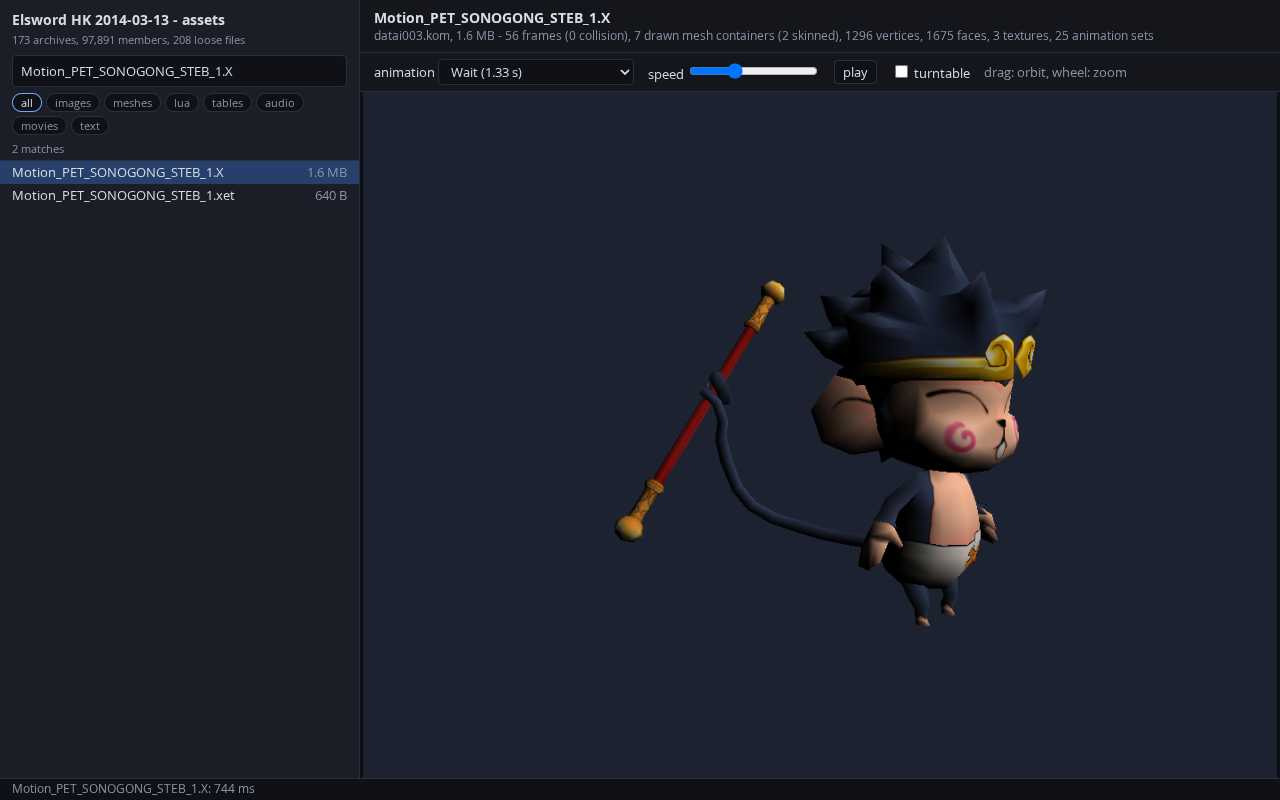
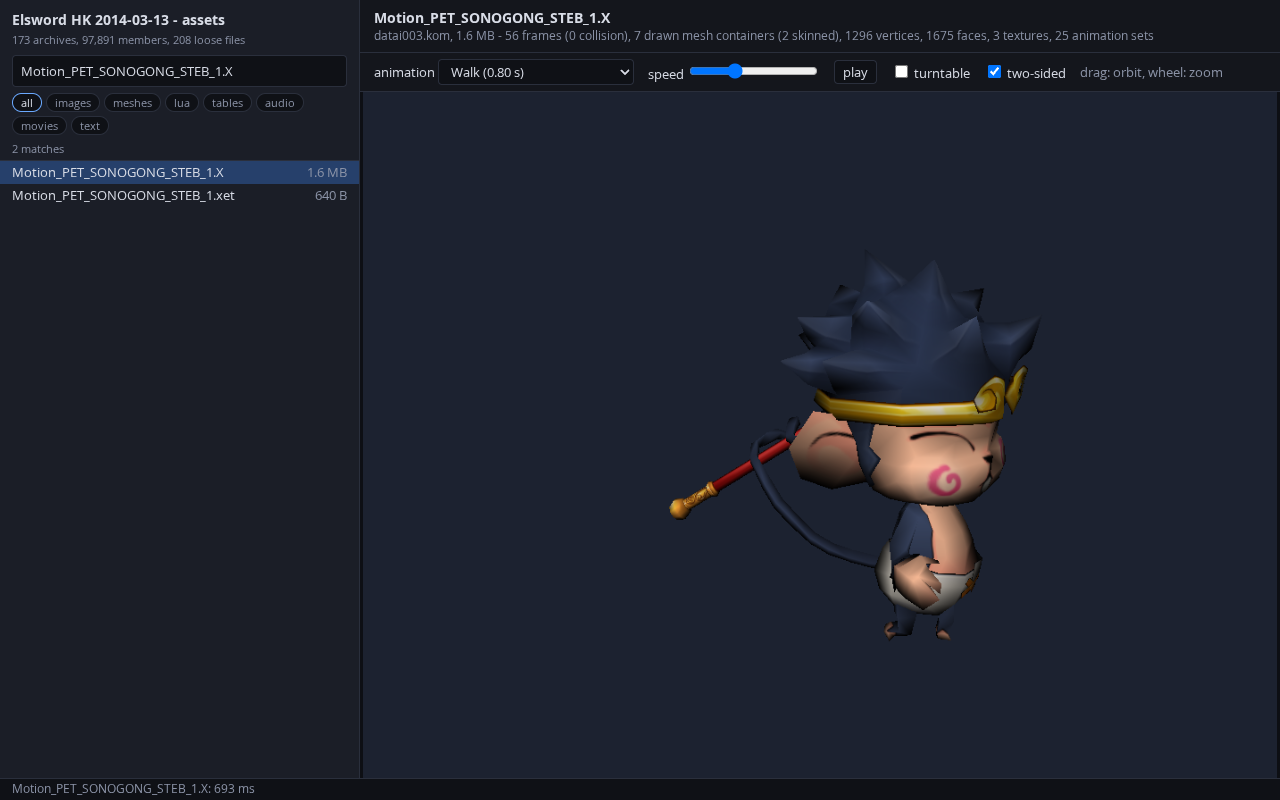
Viewer: two-sided + blended + whole-motion camera; browser smoke test over random X / Y files; httpSource size fallback
* tools/browser-test.ts --smoke N: opens N pseudo-random X / Y files in the browser. 1,500 files:
  1,445 drawn (407 skinned, 299 animated), 55 KSM / KME (not X), 10 without anything to draw,
  0 errors, 0 blank pictures of a file with a drawn container.
* apps/client mesh preview, found by that sample: two-sided by default (single-sided planes were
  culled), alpha blending with a low alpha test (fog planes), camera bounds from 9 poses of the
  first animation set (effect weapons start at scale 0.002).
* @els/kom httpSource: when a proxy drops Content-Length on HEAD, take the size from the
  Content-Range of a one-byte range request (4 tests against a real server).
* docs: FINDINGS 15.4, README / ARCHITECTURE / ROADMAP (test counts 495 / 368), pet screenshot.

diff --git a/apps/client/src/previews/mesh.ts b/apps/client/src/previews/mesh.ts
@@ -7,7 +7,7 @@
  */
 import { collisionFrames, setupDrawFrameList, setupFrameList } from "@els/engine";
 import {
-  D3DCLEAR, D3DCMP, D3DCULL, D3DFMT, D3DLIGHT, D3DPOOL, D3DRS, D3DSAMP, D3DTEXF, D3DTS, D3DTS_WORLD, D3DX_FILTER, D3DXCreateTextureFromFileInMemoryEx,
+  D3DBLEND, D3DCLEAR, D3DCMP, D3DCULL, D3DFMT, D3DLIGHT, D3DPOOL, D3DRS, D3DSAMP, D3DTEXF, D3DTS, D3DTS_WORLD, D3DX_FILTER, D3DXCreateTextureFromFileInMemoryEx,
   D3DXFrameFind, D3DXLoadMeshHierarchyFromXInMemory, D3DXMESH, matIdentity, matLookAtLH, matMultiply, matPerspectiveFovLH,
 } from "@els/d3d9";
 import type { D3DXAnimationController, D3DXFrame, D3DXMesh, D3DXMeshContainer, D3DXMaterial, D3DXSkinInfo, Direct3DTexture9, ID3DXAllocateHierarchy } from "@els/d3d9";
@@ -148,12 +148,20 @@ export async function meshPreview(env: PreviewEnv, name: string, bytes: Uint8Arr
     }
   };
   growBounds();
+  if (controller && sets.length) {
+    // the camera must see the whole motion: an effect weapon can start at scale 0.002 and grow to full size (EG_SP3a_QueensThrone_JumpAttackZ_02.X)
+    for (let k = 1; k <= 8; k++) { controller.SetTrackPosition(0, (sets[0]!.period * k) / 8); pose(0); growBounds(); }
+    selectSet(0);
+    pose(0);
+  }
   const hasGeometry = containers.length > 0 && Number.isFinite(lo[0]!);
   const center = hasGeometry ? [(lo[0]! + hi[0]!) / 2, (lo[1]! + hi[1]!) / 2, (lo[2]! + hi[2]!) / 2] : [0, 0, 0];
   const radius = hasGeometry ? Math.max(1e-3, Math.hypot(hi[0]! - lo[0]!, hi[1]! - lo[1]!, hi[2]! - lo[2]!) / 2) : 1;
 
   // ---- camera + draw
   let yaw = 0.6, pitch = 0.25, distance = radius * 2.6, autoRotate = true, raf = 0, last = performance.now(), frameCounter = 0;
+  /** Planes of stages / avatar cards are single-sided in the files; the exe decides the cull mode per object (XMeshPlayer, CKTDGXRenderer), the files carry none. The viewer is an inspector: two-sided by default, D3D's CCW on request. */
+  let twoSided = true;
   const draw = (): void => {
     dev.Clear(null, D3DCLEAR.TARGET | D3DCLEAR.ZBUFFER, 0xff1c2230, 1, 0);
     dev.BeginScene();
@@ -162,10 +170,13 @@ export async function meshPreview(env: PreviewEnv, name: string, bytes: Uint8Arr
     dev.SetRenderState(D3DRS.LIGHTING, 1);
     dev.SetRenderState(D3DRS.AMBIENT, 0xff707070);
     dev.SetRenderState(D3DRS.NORMALIZENORMALS, 1);
-    dev.SetRenderState(D3DRS.CULLMODE, D3DCULL.CCW);
-    dev.SetRenderState(D3DRS.ALPHABLENDENABLE, 0);
+    dev.SetRenderState(D3DRS.CULLMODE, twoSided ? D3DCULL.NONE : D3DCULL.CCW);
+    // an inspector's choice (the exe sets blending per object): texture alpha blends, nearly transparent texels are dropped so they do not hide what is behind
+    dev.SetRenderState(D3DRS.ALPHABLENDENABLE, 1);
+    dev.SetRenderState(D3DRS.SRCBLEND, D3DBLEND.SRCALPHA);
+    dev.SetRenderState(D3DRS.DESTBLEND, D3DBLEND.INVSRCALPHA);
     dev.SetRenderState(D3DRS.ALPHATESTENABLE, 1);
-    dev.SetRenderState(D3DRS.ALPHAREF, 0x40);
+    dev.SetRenderState(D3DRS.ALPHAREF, 0x08);
     dev.SetRenderState(D3DRS.ALPHAFUNC, D3DCMP.GREATEREQUAL);
     dev.SetSamplerState(0, D3DSAMP.MINFILTER, D3DTEXF.LINEAR);
     dev.SetSamplerState(0, D3DSAMP.MAGFILTER, D3DTEXF.LINEAR);
@@ -210,10 +221,11 @@ export async function meshPreview(env: PreviewEnv, name: string, bytes: Uint8Arr
   const speedInput = el("input", { type: "range", min: "0", max: "3", step: "0.05", value: "1", oninput: () => { speed = Number(speedInput.value); } });
   const pauseBtn = el("button", { text: "pause", onclick: () => { paused = !paused; pauseBtn.textContent = paused ? "play" : "pause"; } });
   const rotate = el("input", { type: "checkbox", checked: true, onchange: () => { autoRotate = rotate.checked; } });
+  const sided = el("input", { type: "checkbox", checked: true, onchange: () => { twoSided = sided.checked; } });
   const bar = el("div", { class: "bar" },
     sets.length ? el("label", {}, "animation ", select) : el("span", { text: "no animation" }),
     sets.length ? el("label", {}, "speed ", speedInput) : null, sets.length ? pauseBtn : null,
-    el("label", {}, rotate, " turntable"), el("span", { class: "dim", text: "drag: orbit, wheel: zoom" }));
+    el("label", {}, rotate, " turntable"), el("label", { title: "off = D3DCULL_CCW, the D3D default" }, sided, " two-sided"), el("span", { class: "dim", text: "drag: orbit, wheel: zoom" }));
   const pane = el("div", { class: "pane" }, bar, el("div", { class: "glwrap" }, canvas));
   raf = requestAnimationFrame(tick);
   const refused = frameList.hr < 0 ? " - the exe would refuse this mesh (more than 255 frames)" : "";
@@ -229,6 +241,7 @@ export async function meshPreview(env: PreviewEnv, name: string, bytes: Uint8Arr
     control(o) {
       if (typeof o.autoRotate === "boolean") { autoRotate = o.autoRotate; rotate.checked = autoRotate; }
       if (typeof o.paused === "boolean") { paused = o.paused; pauseBtn.textContent = paused ? "play" : "pause"; }
+      if (typeof o.twoSided === "boolean") { twoSided = o.twoSided; sided.checked = twoSided; }
       if (typeof o.yaw === "number") yaw = o.yaw;
       if (typeof o.pitch === "number") pitch = o.pitch;
       if (typeof o.distance === "number") distance = o.distance * radius; // in bounding radii
@@ -236,6 +249,6 @@ export async function meshPreview(env: PreviewEnv, name: string, bytes: Uint8Arr
       if (typeof o.time === "number") pose(o.time); // from the start of the set
       draw();
     },
-    state() { return { frames: frameCounter, time, setIndex, sets: sets.map((s) => s.name), containers: containers.length, skinned, vertices: numVertices, radius, paused }; },
+    state() { return { frames: frameCounter, time, setIndex, sets: sets.map((s) => s.name), containers: containers.length, skinned, vertices: numVertices, radius, paused, twoSided, center, yaw }; },
   };
 }

diff --git a/tools/browser-test.ts b/tools/browser-test.ts
@@ -2,7 +2,7 @@
  * Browser tests of the web client (apps/client + apps/server) in headless Chromium with WebGPU (SwiftShader):
  *
  *   ./tools/setup-browser.sh            (once; tools/browser.mjs runs it when the browser is missing)
- *   bun run tools/browser-test.ts [--shots dir] [--url http://host:port/]
+ *   bun run tools/browser-test.ts [--shots dir] [--url http://host:port/] [--smoke N]
  *
  * Starts the server in this process (or uses --url), loads the page and checks, against the same decoders run in Bun on the same files:
  *   - the 173 archives mount over HTTP Range requests (97,891 members)
@@ -19,6 +19,7 @@ import { indexAllKoms } from "./komindex.ts";
 const argv = process.argv.slice(2);
 const opt = (name: string): string | undefined => { const i = argv.indexOf(name); return i < 0 ? undefined : argv[i + 1]; };
 const shotsDir = opt("--shots");
+const smoke = Number(opt("--smoke") ?? 0); // --smoke N: also open N pseudo-random X / Y files and report what fails
 if (shotsDir) mkdirSync(shotsDir, { recursive: true });
 
 let failures = 0;
@@ -155,6 +156,38 @@ try {
       const info = await page.evaluate<string>("document.querySelector('.info').textContent");
       check("fallback: Mesh_Elsword_Base_SD.x (KSM, not X) opens as a binary dump with a note", /not shown as a mesh/.test(info), info);
     }
+    // ---- --smoke N: a deterministic pseudo-random sample of the X / Y files through the whole browser stack
+    if (smoke > 0) {
+      await page.goto(base, { waitUntil: "load" });
+      await page.waitForFunction("window.__els && (window.__els.ready || window.__els.error)", { timeout: 60000, polling: 50 });
+      const names = await page.evaluate<string[]>(`(() => { const rows = __els.vfs.rows.filter((r) => r.ext === 'x' || r.ext === 'y'); let seed = 12345; const out = [];
+        for (let i = 0; i < ${smoke}; i++) { seed = (Math.imul(seed, 1103515245) + 12345) >>> 0; out.push(rows[seed % rows.length].name); } return out; })()`);
+      const tally = { drawn: 0, skinned: 0, animated: 0, notX: 0, failed: [] as string[], slow: [] as string[], blank: [] as string[], blankDrawn: [] as string[] };
+      for (const name of names) {
+        const t = Date.now();
+        try {
+          await page.evaluate(`(async () => { await window.__els.open(${JSON.stringify(name)}); })()`);
+          await page.waitForFunction(`document.querySelector('.name').textContent.toLowerCase() === ${JSON.stringify(name.toLowerCase())} && (window.__els.viewer.preview !== null || document.querySelector('.err'))`, { timeout: 30000, polling: 25 });
+          // an effect mesh can start with scale 0 (RWT_GIGA_PROMINENCE_pillar_fire01.X): a blank first picture is retried at later animation times
+          const r = await page.evaluate<{ err: string | null; info: string; lit: number; state: { containers?: number; skinned?: number; sets?: string[]; vertices?: number } | null }>(
+            `(async () => { const p = __els.viewer.preview; let lit = 0;
+              const count = async () => { await new Promise((x) => requestAnimationFrame(() => requestAnimationFrame(x))); const px = (await p.snapshot()).rgba; let n = 0;
+                for (let i = 0; i < px.length; i += 4) if (!(px[i] === 0x1c && px[i+1] === 0x22 && px[i+2] === 0x30)) n++; return n; };
+              if (p?.snapshot) { lit = await count();
+                if (lit === 0 && p.control && (p.state().sets?.length ?? 0) > 0) { p.control({ paused: true, autoRotate: false });
+                  for (const t of [0.25, 0.5, 1, 2]) { p.control({ set: 0 }); p.control({ time: t }); lit = await count(); if (lit > 0) break; } } }
+              return { err: document.querySelector('.err')?.textContent ?? null, info: document.querySelector('.info').textContent, lit, state: p?.state?.() ?? null }; })()`);
+          if (r.err) tally.failed.push(`${name}: ${r.err}`);
+          else if (/not shown as a mesh/.test(r.info)) tally.notX++;
+          else if (r.state && (r.state.containers ?? 0) >= 0) { tally.drawn++; if ((r.state.skinned ?? 0) > 0) tally.skinned++; if ((r.state.sets?.length ?? 0) > 0) tally.animated++; if (r.lit === 0) (r.state.containers ? tally.blankDrawn : tally.blank).push(`${name} (containers ${r.state.containers}, vertices ${r.state.vertices})`); }
+        } catch (e) { tally.failed.push(`${name}: ${e instanceof Error ? e.message : e}`); }
+        if (Date.now() - t > 8000) tally.slow.push(`${name} ${Date.now() - t} ms`);
+      }
+      // a file with a drawn mesh container must show something; files without one (dummies, ATTACK_* / COLLISION* helper meshes only) are blank by design
+      check(`smoke: ${smoke} random X / Y files open without an error and show something (${tally.drawn} drawn, ${tally.skinned} skinned, ${tally.animated} animated, ${tally.notX} are KSM / KME, ${tally.blank.length} have nothing to draw)`,
+        tally.failed.length === 0 && tally.slow.length === 0 && tally.blankDrawn.length === 0, [...tally.failed, ...tally.slow, ...tally.blankDrawn.map((b) => `blank: ${b}`)].slice(0, 6).join(" | "));
+    }
+
     // ---- the same fixed views with the canvas / back buffer in either format: the layer must not depend on the swizzle (the preferred
     //      format differs between platforms: rgba8unorm in this headless browser, usually bgra8unorm on a desktop GPU)
     const fixed = async (format: string): Promise<{ format: string; hashes: string[] }> => {

diff --git a/packages/kom/test/httpsource.test.ts b/packages/kom/test/httpsource.test.ts
@@ -1,0 +1,47 @@
+/** httpSource over a real HTTP server (the web client's way of reading KOMs). */
+import { afterAll, describe, expect, test } from "bun:test";
+import { httpSource } from "../src/index.ts";
+
+const body = new Uint8Array(1000).map((_, i) => (i * 7) & 255);
+function server(opts: { headLength: boolean; ranges: boolean; streamed?: boolean }) {
+  return Bun.serve({
+    port: 0, hostname: "127.0.0.1",
+    fetch(req) {
+      if (req.method === "HEAD") return new Response(null, { headers: opts.headLength ? { "content-length": String(body.length) } : {} });
+      const m = /^bytes=(\d+)-(\d+)$/.exec(req.headers.get("range") ?? "");
+      if (m && opts.ranges) {
+        const a = Number(m[1]), b = Math.min(Number(m[2]), body.length - 1);
+        return new Response(body.slice(a, b + 1), { status: 206, headers: { "content-range": `bytes ${a}-${b}/${body.length}` } });
+      }
+      if (opts.streamed) return new Response(new ReadableStream({ start(c) { c.enqueue(body); c.close(); } })); // chunked: no Content-Length
+      return new Response(body);
+    },
+  });
+}
+const servers = [
+  server({ headLength: true, ranges: true }), server({ headLength: false, ranges: true }),
+  server({ headLength: false, ranges: false }), server({ headLength: false, ranges: false, streamed: true }),
+];
+afterAll(() => { for (const s of servers) s.stop(true); });
+
+describe("httpSource", () => {
+  test("size from HEAD, ranges from 206 responses", async () => {
+    const src = await httpSource(`http://127.0.0.1:${servers[0]!.port}/f`);
+    expect(src.size).toBe(1000);
+    expect(Buffer.compare(await src.read(10, 5), Buffer.from(body.subarray(10, 15)))).toBe(0);
+    expect((await src.read(0, 0)).length).toBe(0);
+  });
+  test("without a Content-Length on HEAD the size comes from Content-Range", async () => {
+    const src = await httpSource(`http://127.0.0.1:${servers[1]!.port}/f`);
+    expect(src.size).toBe(1000);
+    expect(Buffer.compare(await src.read(995, 5), Buffer.from(body.subarray(995, 1000)))).toBe(0);
+  });
+  test("a server that ignores Range and sends the whole file (200): the size is its Content-Length, reads slice the body", async () => {
+    const src = await httpSource(`http://127.0.0.1:${servers[2]!.port}/f`);
+    expect(src.size).toBe(1000);
+    expect(Buffer.compare(await src.read(100, 20), Buffer.from(body.subarray(100, 120)))).toBe(0);
+  });
+  test("no size anywhere is an error", async () => {
+    await expect(httpSource(`http://127.0.0.1:${servers[3]!.port}/f`)).rejects.toThrow(/cannot determine the size/);
+  });
+});

diff --git a/packages/kom/src/sources.ts b/packages/kom/src/sources.ts
@@ -15,7 +15,16 @@ export function fileSource(path: string): ByteSource {
 export async function httpSource(url: string): Promise<ByteSource> {
   const head = await fetch(url, { method: "HEAD" });
   if (!head.ok) throw new Error(`HEAD ${url}: ${head.status}`);
-  const size = Number(head.headers.get("content-length"));
+  let size = Number(head.headers.get("content-length"));
+  if (!(size > 0)) {
+    // some proxies drop the length of a HEAD response: ask for the first byte and read the total from Content-Range
+    const probe = await fetch(url, { headers: { Range: "bytes=0-0" } });
+    const total = /\/(\d+)\s*$/.exec(probe.headers.get("content-range") ?? "");
+    await probe.body?.cancel();
+    if (total) size = Number(total[1]);
+    else if (probe.status === 200 && Number(probe.headers.get("content-length")) > 0) size = Number(probe.headers.get("content-length"));
+    else throw new Error(`${url}: cannot determine the size (no Content-Length on HEAD, no Content-Range on a range request)`);
+  }
   return {
     size,
     async read(offset, length) {

diff --git a/docs/FINDINGS.md b/docs/FINDINGS.md
@@ -913,7 +913,8 @@ A Bandi-like movie player for `CMovieData`: `Open` / `GetVideoInfo` / `Play` / `
 
 `@els/kom`: `MassFileManager` (`addMassFile` / `addArchive` / `lock` / `find` / `has` / `loadDataFile` / `names`, the duplicate and lock rules above, upper-case lookup),
 `CLIENT_KOM_NAMES` (the 173 names in the exe's order) and `mountClientArchives(manager, open, { names, concurrency, onMissing, onProgress })`
-(`packages/kom/src/massfile.ts`, `packages/kom/test/massfile.test.ts`, 6 tests). The web client opens the archives through `httpSource("/data/<name>")`; the server (`apps/server`)
+(`packages/kom/src/massfile.ts`, `packages/kom/test/massfile.test.ts`, 6 tests). The web client opens the archives through `httpSource("/data/<name>")` (size from the HEAD
+response, or from `Content-Range` / `Content-Length` of a one-byte range request when a proxy drops it; `httpsource.test.ts`, 4 tests against a real server); the server (`apps/server`)
 answers `Range` and `HEAD` and serves only the asset types the client can use (not `x2.exe`, the decompile or the DLLs).
 
 ## 15. The web client, the browser test harness and the first engine lists
@@ -967,12 +968,22 @@ Ported as `setupFrameList`, `setupDrawFrameList`, `collisionFrames` in `packages
 What the data looks like: the body parts of the playable characters are X files with the 68-bone skeleton and one skinned mesh and **no animation sets** (`Mesh_ElSword_JP_Upbody09_Sorted.X`); their motions live in KAC files
 (`Motion_Elsword.x`, not X). Pets, NPCs and effect models (`Motion_PET_*_STEB_*.X`, 25 animation sets, 2-4 skinned meshes) are complete X files and animate in the viewer.
 
-### 15.4 Verification (`bun run tools/browser-test.ts [--shots dir]`, 18 checks, about 17 s)
+### 15.4 Verification (`bun run tools/browser-test.ts [--shots dir] [--smoke N]`, 18 checks, about 17 s)
 
 It starts the server in the process, loads the page in headless Chromium and checks: 173 archives / 97,891 members mounted over Range requests with none missing; the TGA `dlg_first_loading0_hk.tga` pixel-identical to the
 Bun decode; picture 13 of `movie_create_aisha_base.avi` pixel-identical to the Bun decode; the wooden sword draws one container and lights pixels; `Motion_PET_SONOGONG_STEB_1.X` (56 frames, 7 drawn containers, 2 skinned, 25 sets, 3 textures) draws,
 changes with the animation time and switches animation sets; the Lua listing, `general.ess`, an XET and a TET, an `.ogg` (browser-decoded, 109.7 s) and the KSM fallback; **the sword and the animated pet are pixel-identical with an RGBA and a BGRA back buffer**;
 no console error, exception, failed request or HTTP status >= 400. These show that the browser stack is consistent with the Bun stack, not that the pictures equal the original client's (there is no reference screenshot).
+
+`--smoke N` adds a 19th check: N X / Y files picked by a fixed LCG (seed 12345) are opened in the page one after the other; each must open without an error and, when it has a drawn mesh container, light at least one pixel
+(an animated one may be blank at t = 0 and is retried at 0.25 / 0.5 / 1 / 2 s). With N = 1,500 (5.7 % of the 26,453 files, 3.7 minutes): **1,445 drawn (407 skinned, 299 animated), 55 KSM / KME files (not X: hex fallback), 10 files with nothing
+to draw, 0 errors, 0 blank pictures of a file that has a drawn container.** The 10 are dummies and helper-only files by design: `Darkcloud_AttackBox01.X` has only `ATTACK_SPHERE*` meshes, `Mesh_Common_Cash_AC_Lowbody_249270_Sorted.X` is a 452-byte file with two empty frames.
+The sample found four things in the viewer (they are inspector choices; the exe sets cull and blend per object through its XMeshPlayer scripts and `CKTDGXRenderer`, the X files carry neither):
+
+1. Single-sided planes (stage backdrops, avatar face cards) vanished under `D3DCULL_CCW`: in a first sample of 400 files, 11 files with a drawn container gave a blank picture. The viewer is **two-sided by default** (checkbox "two-sided"; off = `D3DCULL_CCW`, D3D's default); 2 files were still blank.
+2. A fog plane (`El_Forest_Extra_Cave_Stage4_Fog1.Y`, texture alpha 0 or < 0x40 everywhere) vanished under an alpha test of 0x40: now `SRCALPHA` / `INVSRCALPHA` blending with an alpha test of 8.
+3. The camera was fitted to the first pose only. Effect weapons start tiny (`EG_SP3a_QueensThrone_JumpAttackZ_02.X`: bounding radius 0.11 at t = 0, 114 over the motion): the bounds are now the union of 9 poses of the first animation set. After 2 and 3 the sample of 400 had no blank picture left that has a drawn container.
+4. Effect meshes may start at scale 0 (`RWT_GIGA_PROMINENCE_pillar_fire01.X`: 0 lit pixels at t = 0, 73,813 at 0.2 s): the check retries at later times instead of failing.
 
 ### 15.5 Not done
 

diff --git a/docs/ARCHITECTURE.md b/docs/ARCHITECTURE.md
@@ -159,7 +159,7 @@ Design points that matter for faithfulness:
 | `census-skin.ts` | the D3DX hierarchy loader, `ConvertToIndexedBlendedMesh` (with the engine's palette) and the controller over every skinned X file (needs the GPU wrapper) |
 | `render-demo.ts` | the D3D9 visual milestone: loading screen + starter sword -> PNG (`docs/img/d3d9-demo.png` with `--docs`) |
 | `setup-browser.sh`, `browser.mjs` (+ `browser.d.mts`) | installs `puppeteer-core` and a headless Chromium (`@sparticuz/chromium`, WebGPU on SwiftShader) under `/home/user/work/browser` and `/tmp/chromium`; `node tools/browser.mjs URL [--shot f.png] [--wait EXPR] [--eval EXPR]... [--size WxH] [--settle ms]` opens a page, prints the console, evaluates, screenshots, exits 1 on a page error / failed request / timeout; `withPage` for scripts (FINDINGS 15.1) |
-| `browser-test.ts` | 18 browser checks of the web client against the same decoders run in Bun (archives over Range, TGA and AVI pictures pixel-identical, static and skinned meshes through the WebGPU canvas, RGBA vs BGRA back buffer identical, Lua / XET / TET / audio previews, no console error); `--shots DIR` keeps screenshots |
+| `browser-test.ts` | 18 browser checks of the web client (`--smoke N` opens N pseudo-random X / Y files as well; N = 1,500: 1,445 drawn, 0 errors) against the same decoders run in Bun (archives over Range, TGA and AVI pictures pixel-identical, static and skinned meshes through the WebGPU canvas, RGBA vs BGRA back buffer identical, Lua / XET / TET / audio previews, no console error); `--shots DIR` keeps screenshots |
 | `ledger.py` | coverage ledger keyed by IDA address -> `docs/LEDGER.md` (rules in `docs/ledger.tsv`, `docs/ledger-classes.tsv`) |
 | `index_decomp.py`, `komlib.py`, `kom_extract.py`, `luadecrypt.py`, `census.ts` | reverse-engineering helpers (function index, extraction, census) |
 
@@ -185,7 +185,7 @@ python3 tools/index_decomp.py data/x2.exe.c /home/user/work/analysis/functions.t
 python3 tools/bindings.py && python3 tools/ledger.py                                # docs/HOST_API.md, docs/LEDGER.md
 ./node_modules/.bin/bun test packages                                                 # unit tests that need no GPU: asset decoders, Lua loader, KLuaManagerProxy (the d3d9 GPU tests skip)
 ./tools/setup-gpu.sh                                                                   # software Vulkan for Dawn -> /home/user/work/swsh (about 2 s)
-./tools/gpu.sh ./node_modules/.bin/bun test packages                                   # everything: 491 tests, incl. the 153 d3d9 tests on Dawn + SwiftShader
+./tools/gpu.sh ./node_modules/.bin/bun test packages                                   # everything: 495 tests, incl. the 153 d3d9 tests on Dawn + SwiftShader
 ./node_modules/.bin/bun run tools/gen-d3d9-enums.ts --check                            # enums.generated.ts is current
 ./node_modules/.bin/bun run tools/census-xscene.ts                                     # integrity of all 25,313 X / Y scenes
 ./tools/gpu.sh ./node_modules/.bin/bun run tools/census-skin.ts                        # hierarchy loader + skin conversion + animation over all 7,395 skinned files, ~3 min

diff --git a/docs/ROADMAP.md b/docs/ROADMAP.md
@@ -53,7 +53,7 @@ the client asks of Direct3D and every flagged assumption are in FINDINGS section
 
 | Item | Status | Verification |
 |---|---|---|
-| device core: state machine with the D3D9 defaults the exe restores (103 render states, 18 texture-stage states x 8, 13 sampler states x 16), transforms, lights, material, viewport / scissor, Clear (incl. rects, stencil), Present, Reset, render targets + depth surfaces, StretchRect, UpdateTexture, vertex / index buffers with D3D `Lock` semantics (DISCARD / NOOVERWRITE, renaming hazards), user-pointer draws, triangle fans | done | `packages/d3d9/test` (153 tests incl. D3DX and the effect, all on Dawn + SwiftShader; they skip without an adapter; the whole suite is 491 tests, 364 of which need no GPU) |
+| device core: state machine with the D3D9 defaults the exe restores (103 render states, 18 texture-stage states x 8, 13 sampler states x 16), transforms, lights, material, viewport / scissor, Clear (incl. rects, stencil), Present, Reset, render targets + depth surfaces, StretchRect, UpdateTexture, vertex / index buffers with D3D `Lock` semantics (DISCARD / NOOVERWRITE, renaming hazards), user-pointer draws, triangle fans | done | `packages/d3d9/test` (153 tests incl. D3DX and the effect, all on Dawn + SwiftShader; they skip without an adapter; the whole suite is 495 tests, 368 of which need no GPU) |
 | fixed-function pipeline: vertex transform + all light types + material sources + fog (vertex, table, pre-transformed), texture coordinate generation + texture transforms, the full texture-stage cascade (all `D3DTOP`, arguments, TEMP / CURRENT / TFACTOR, 8 stages), specular add, alpha test | done | `draw`, `state`, `lighting`, `cascade` tests against analytic values |
 | pipeline state: blend (+ separate alpha), depth (func / write / bias), stencil, cull, scissor, colour-write mask; samplers: wrap / mirror / clamp, point / linear / anisotropic, mip filter + LOD bias + max level | done | `state`, `texture` tests |
 | texture / surface formats: A8R8G8B8, X8R8G8B8, A1R5G5B5, X1R5G5B5, R5G6B5, A4R4G4B4, L8, A8L8, A8, R8G8B8, DXT1 / 3 / 5 (BC1 / 2 / 3, CPU decode when the adapter lacks BC), D16 / D24 / D32 depth, float render targets | done | `formats`, `rendertarget` tests (BC within +-1) |

diff --git a/README.md b/README.md
@@ -26,7 +26,7 @@
 | 5 | `lua_tinker` 等價的 host API | 已完成**地面實況分析**（`docs/HOST_API.md`），尚未實作 |
 | 6 | 開機／登入／角色選擇 + `apps/server` | 未開始 |
 
-![資產檢視器：Sonogong 寵物（`Motion_PET_SONOGONG_STEB_1.X`，蒙皮動畫「Wait」）由原版 KOM 資產經 D3D9 層畫在 WebGPU canvas（無頭 Chromium + SwiftShader 截圖）](docs/img/web-viewer-pet.png)
+![資產檢視器：Sonogong 寵物（`Motion_PET_SONOGONG_STEB_1.X`，蒙皮動畫「Walk」）由原版 KOM 資產經 D3D9 層畫在 WebGPU canvas（無頭 Chromium + SwiftShader 截圖）](docs/img/web-viewer-pet.png)
 
 ### Lua VM 的驗證結果（誠實版）
 
@@ -78,8 +78,8 @@ npm install --no-audit --no-fund --prefix /home/user/work/boot bun@1.4.4   # npm
 ./tools/setup-oracle.sh                 # 建置 LuaJIT 2.0.2 oracle 到 /home/user/work/luajit-2.0
 python3 tools/kom_extract.py /home/user/work/ex lua,LUA  # 取出 4,498 個腳本
 ./tools/lua-difftest.sh                 # 15 個差異測試（t10–t14 為模糊測試、t15 為載入器）
-./node_modules/.bin/bun test packages   # 不需要 GPU 的單元測試（364 個；d3d9／engine 的 GPU 測試會自行略過）
-./tools/gpu.sh ./node_modules/.bin/bun test packages   # 全部 491 個測試（含 153 個 d3d9 測試，在 Dawn + SwiftShader 上執行）
+./node_modules/.bin/bun test packages   # 不需要 GPU 的單元測試（368 個；d3d9／engine 的 GPU 測試會自行略過）
+./tools/gpu.sh ./node_modules/.bin/bun test packages   # 全部 495 個測試（含 153 個 d3d9 測試，在 Dawn + SwiftShader 上執行）
 ./node_modules/.bin/bun run tools/verify-ksm.ts   # KME/KSM/KAC 全部資產驗證（約 45 秒）；其餘見 package.json 的 verify:*
 pip install --target /home/user/work/pyav av numpy   # PyAV 內含 FFmpeg：MPEG-1 影片的 oracle
 PYTHONPATH=/home/user/work/pyav python3 tools/oracle-mpeg1.py --out /tmp/oracle.json data/movie/*.avi && ./node_modules/.bin/bun run tools/verify-mpeg1.ts --hashes /tmp/oracle.json   # 30 部影片、18,514 張畫面（約 22 秒）
